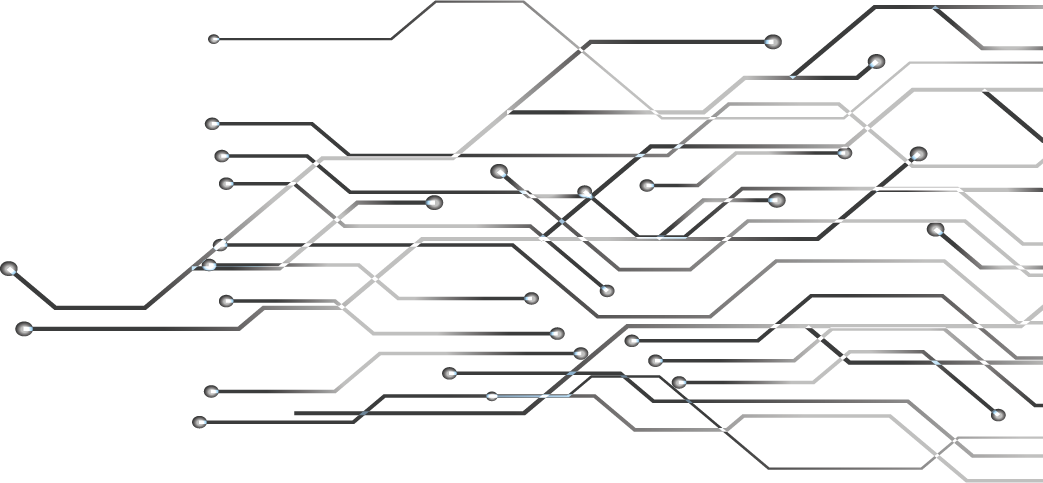
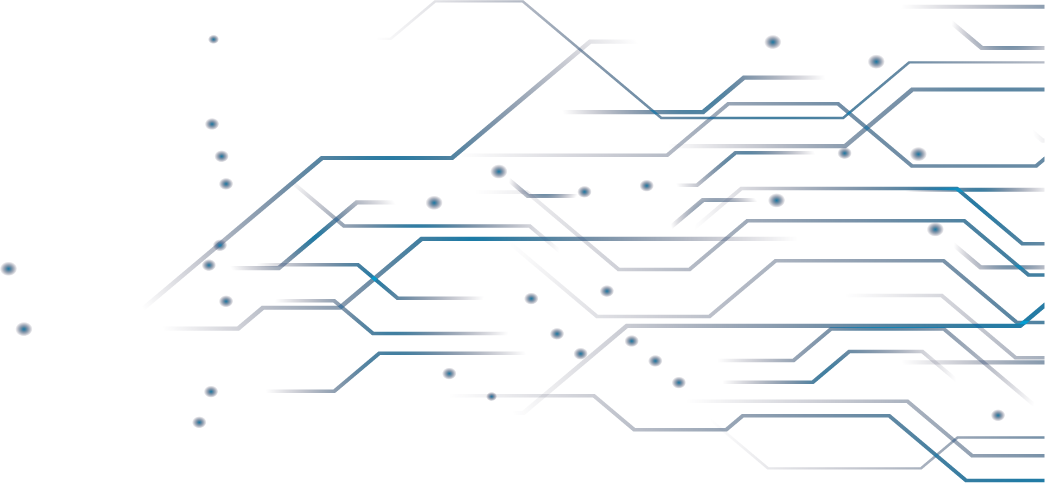
Added datalines & gradient

diff --git a/src/Components/Homepage/CategoriesSection.js b/src/Components/Homepage/CategoriesSection.js
@@ -81,6 +81,27 @@ const HoveredIconContainer = styled(motion.div)`
   }
 `
 
+const Datalines = styled.img`
+  filter: brightness(1.5);
+  height: 300px;
+  left: ${props => props.left ? 0 : "initial"};
+  right: ${props => props.left ? "initial" : 0};
+  position: absolute;
+  top: 275px;
+`
+
+const SideGradient = styled.div`
+  background: ${tokens.color.accentTransparent};
+  border-radius: 999px;
+  filter: blur(370px);
+  height: 210%;
+  left: ${props => props.left ? "-598px" : "initial"};
+  right: ${props => props.left ? "initial" : "-598px"};
+  position: absolute;
+  top: -100%;
+  width: 650px;
+`
+
 export const CategoriesSection = () => {
   const navigate = useNavigate();
   const [hoveredCategory, setHoveredCategory] = useState("")
@@ -96,23 +117,14 @@ export const CategoriesSection = () => {
         position: relative;
       `}
     >
-      <img 
-        css={css`
-          position: absolute;
-          left: 0;
-          height: 300px;
-          top: 275px;
-        `}
+      <SideGradient left={1} />
+      <SideGradient />
+      <Datalines
+        left={1}
         src="datalines-left.png"
         alt="datalines"
       />
-      <img 
-        css={css`
-          position: absolute;
-          right: 0;
-          height: 300px;
-          top: 275px;
-        `}
+      <Datalines
         src="datalines-right.png"
         alt="datalines"
       />
